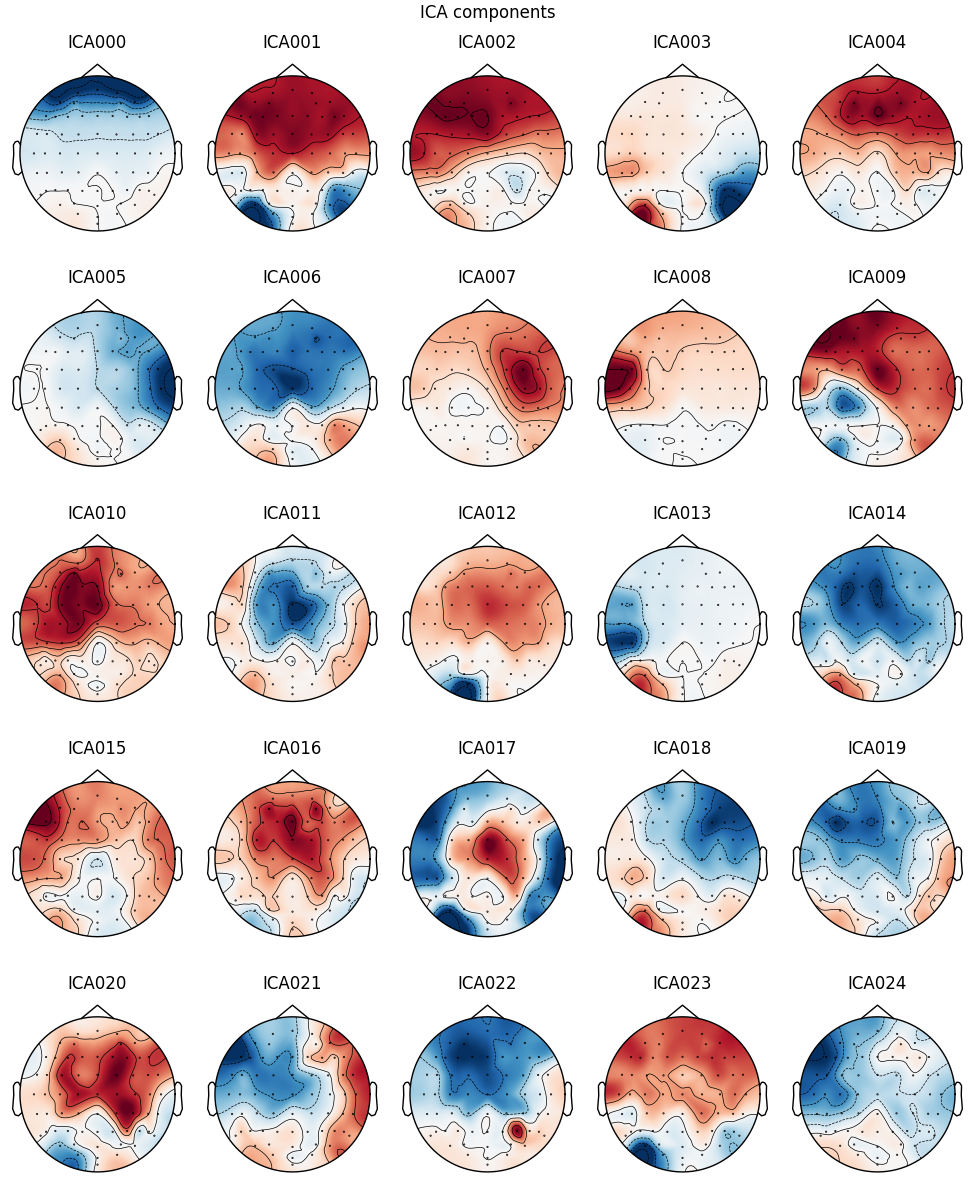
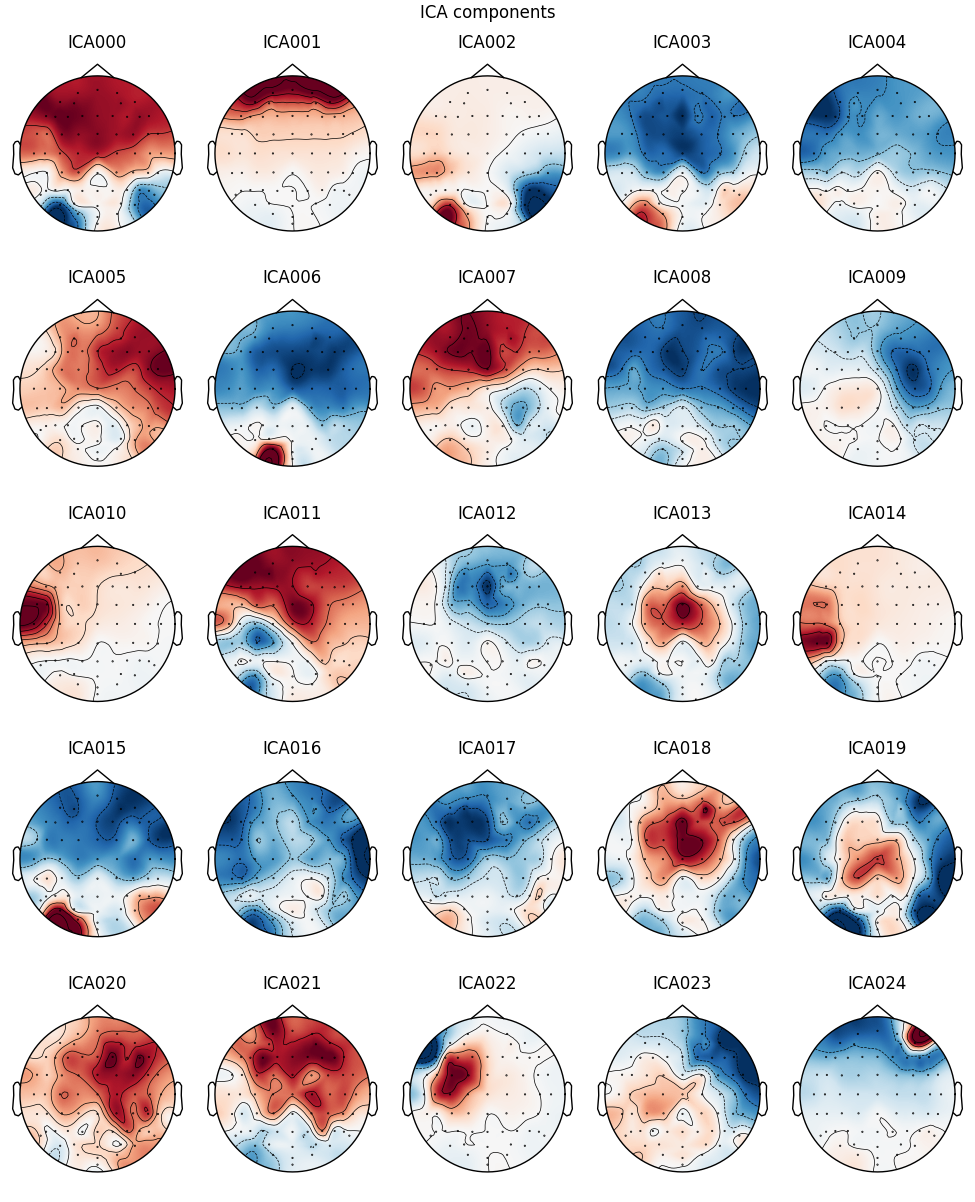
all modules

diff --git a/src/frontend/src/views/Connectivity.vue b/src/frontend/src/views/Connectivity.vue
@@ -1,9 +1,19 @@
 <template lang="">
     <div>
         <h1>Connectivity Analysis</h1>   
+
+        <h2>Connectivity Analysis</h2>
+        <Figure :src="'/api'+connectivityModule?.plotConnectivity" :loading="connectivityModule?.statusProcessing" :disabled="!connectivityModule" />
+
+        <h2>Connectivity Matrix</h2>
+
+        <!-- <h2>Connectivity Matrix</h2> -->
+        <Button @click="confirm">Confirm</Button>
     </div>
 </template>
 <script>
+import Figure from '@/components/Figure.vue';
+import Button from 'primevue/button';
 
 export default {
     name: 'Connectivity',
@@ -12,9 +22,24 @@ export default {
             
         }
     },
+    components: {
+        Figure,
+        Button
+    },
     methods: {
-        
-    }    
+        confirm: function() {
+            this.$store.dispatch('updateModule', this.connectivityModule);
+            this.$store.dispatch('processModule', this.connectivityModule);
+        }
+    },
+    computed: {
+        connectivityModule: function() {
+            return this.$store.state.modules[3];
+        }
+    }, 
+    mounted: function() {
+        this.$store.dispatch('loadModules');
+    }
 }
 </script>
 <style lang="">

diff --git a/src/frontend/src/views/ICA.vue b/src/frontend/src/views/ICA.vue
@@ -45,7 +45,6 @@ export default {
     },
     computed: {
         icaModule: function() {
-            console.log(this.$store.state.modules);
             if (this.$store.state.modules.length >= 3) {
                 return this.$store.state.modules[2];
             }else{

diff --git a/src/backend/connectivity.py b/src/backend/connectivity.py
@@ -24,7 +24,7 @@ FIDUCIAL_ORDER = (FIFF.FIFFV_POINT_LPA, FIFF.FIFFV_POINT_NASION, FIFF.FIFFV_POIN
 
 @fill_doc
 def plot_sensors_connectivity(
-    info, con, picks=None, cbar_label="Connectivity", n_con=20, cmap="RdBu"
+    save_filename, info, con, picks=None, cbar_label="Connectivity", n_con=20, cmap="RdBu"
 ):
     """Visualize the sensor connectivity in 3D.
 
@@ -50,8 +50,6 @@ def plot_sensors_connectivity(
     fig : instance of Renderer
         The 3D figure.
     """
-
-
     _validate_type(info, "info")
 
     from mne.viz.backends.renderer import _get_renderer
@@ -61,7 +59,7 @@ def plot_sensors_connectivity(
     if isinstance(con, BaseConnectivity):
         con = con.get_data()
 
-    plotter = pv.Plotter(off_screen=True, notebook=False)
+    # plotter = pv.Plotter(off_screen=True, notebook=False)
 
     renderer = _get_renderer(size=(600, 600), bgcolor=(0.5, 0.5, 0.5))
 
@@ -132,17 +130,8 @@ def plot_sensors_connectivity(
         distance=0.76,
         focalpoint=np.array([-3.9e-4, -8.5e-3, -1e-2]),
     )
-    # renderer.show()
-    # return renderer.scene()
 
-    # save the image
-    renderer.set(off_screen=True)
-    renderer.show()
-    renderer.screenshot('output_conn.png')
-    # return renderer.scene()
-
-    # plotter.add_mesh(renderer.scene(), show_edges=True)
-
-    # plotter.screenshot('output_conn.png')
+    renderer.plotter.off_screen = True
+    renderer.plotter.screenshot(save_filename)
 
     return True

diff --git a/src/backend/server.py b/src/backend/server.py
@@ -76,7 +76,7 @@ modules = [
         'id': 3,
         'name': 'Connectivity',
         'description': 'This module calculates connectivity',
-        'plotConnectivity': '/static/2/plotConnectivity.png',
+        'plotConnectivity': '/static/3/plotConnectivity.png',
         'scalings': 0.00000003,
         'plotDuration': 3,
         'type': 'connectivity',
@@ -191,9 +191,9 @@ async def process_module_ica(data,module) -> bool:
     # output data of previous module
     raw_tmp = data
     raw_tmp.filter(l_freq=1, h_freq=None)
-    ica = mne.preprocessing.ICA(method="picard") 
-    fit_params={"extended": True}
     random_state=1
+    ica = mne.preprocessing.ICA(method="picard", random_state=random_state) 
+    fit_params={"extended": True}
     ica.fit(raw_tmp)
 
     fig = ica.plot_components(inst=raw_tmp, picks=range(25));
@@ -248,7 +248,7 @@ def process_module_connectivity(data,module) -> bool:
     )
 
     # Now, visualize the connectivity in 3D:
-    fig = plot_sensors_connectivity(epochs.info, con.get_data(output="dense")[:, :, 0]);
+    fig = plot_sensors_connectivity("./static/3/plotConnectivity.png", epochs.info, con.get_data(output="dense")[:, :, 0]);
     # close the figure to avoid showing it
     # pv.close_all()
     # fig.scene.save('./static/3/plotConnectivity.png')

diff --git a/src/backend/test.py b/src/backend/test.py
@@ -1,6 +1,8 @@
 import pyvista as pv
 import numpy as np
 
+from mne.viz.backends.renderer import _get_renderer
+
 
 plotter = pv.Plotter(off_screen=True)
 
@@ -19,3 +21,8 @@ plotter.screenshot('output.png')
 
 # create a screenshot
 # grid.screenshot("grid.png")
+
+renderer = _get_renderer(size=(600, 600), bgcolor=(0.5, 0.5, 0.5))
+
+renderer.plotter.off_screen = True
+print(renderer)
